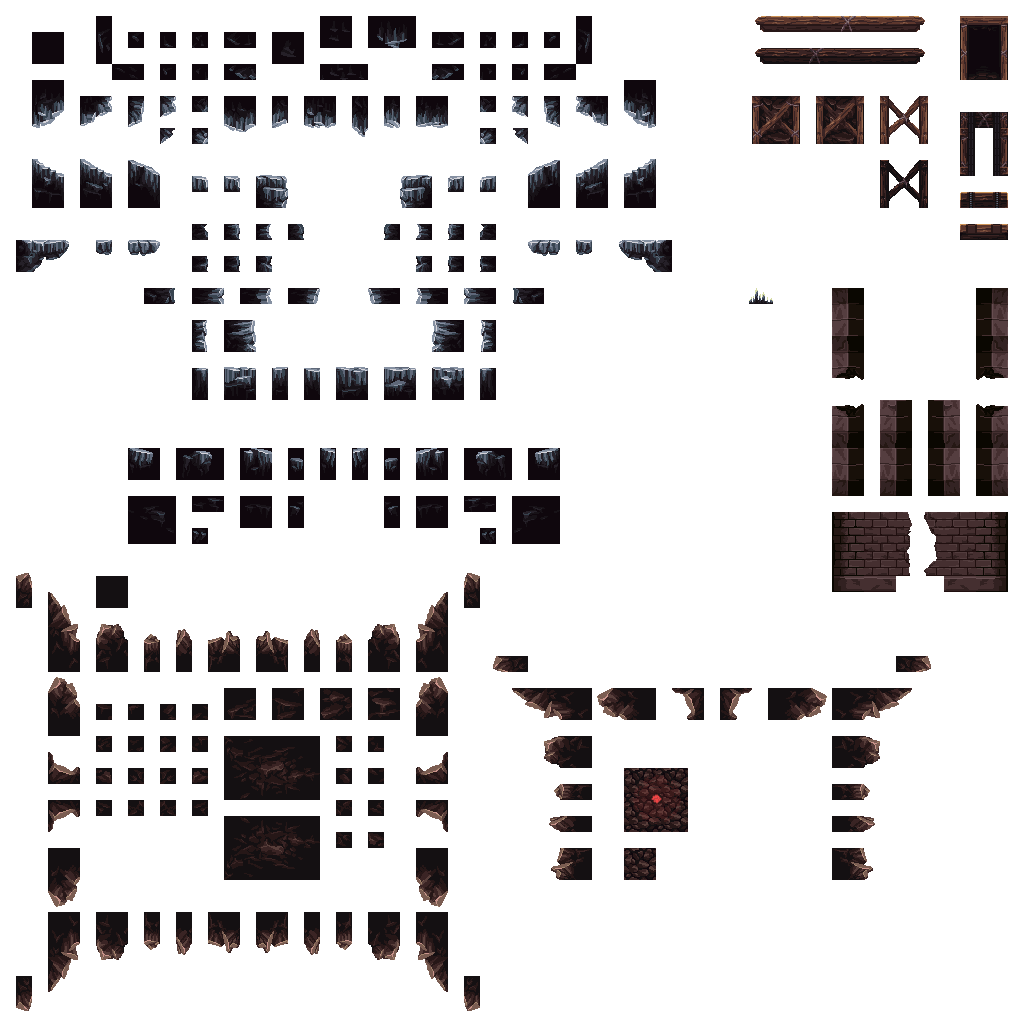
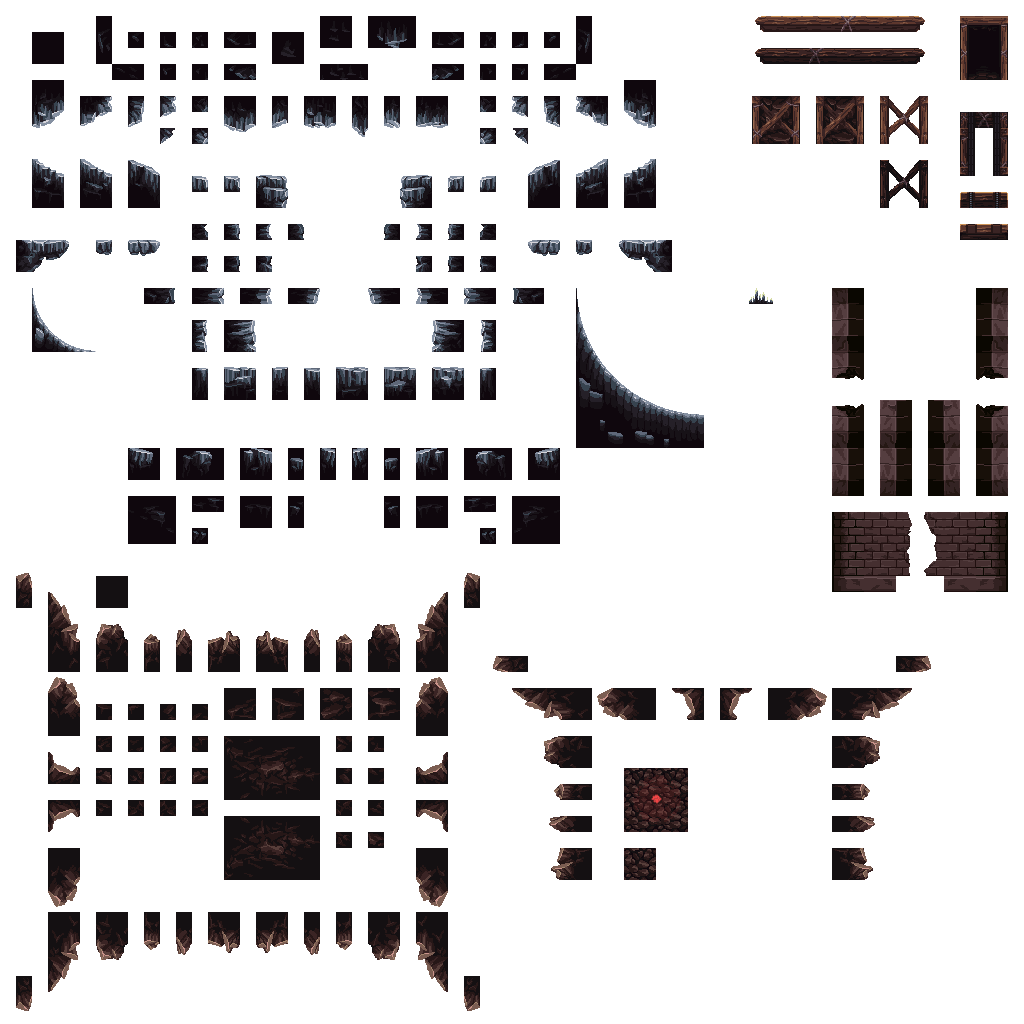
Updated world sprite sheet and added pause menu

Changed region(s): [[0.5625, 0.3125, 0.6875, 0.4375], [0.0312, 0.2812, 0.0938, 0.3438]]

diff --git a/Scripts/PauseMenu.cs b/Scripts/PauseMenu.cs
@@ -1,0 +1,41 @@
+using Godot;
+using System;
+
+public partial class PauseMenu : ColorRect
+{
+	private bool pauseMenuOpen = false;
+	// Called when the node enters the scene tree for the first time.
+	public override void _Ready()
+	{
+	}
+
+	// Called every frame. 'delta' is the elapsed time since the previous frame.
+	public override void _Process(double delta)
+	{
+	}
+
+	public override void _Input(InputEvent @event)
+	{
+		if (@event.IsActionPressed("Pause"))
+		{
+			SetPauseMenu(!pauseMenuOpen);
+		}
+	}
+
+	private void SetPauseMenu(bool setPauseMenu)
+	{
+		GetTree().Paused = setPauseMenu;
+		Visible = setPauseMenu;
+		pauseMenuOpen = setPauseMenu;
+	}
+
+	private void _OnResumeButtonPressed()
+	{
+		SetPauseMenu(false);
+	}
+
+	private void _OnExitLevelButtonPressed()
+	{
+		
+	}
+}

diff --git a/Scripts/Player.cs b/Scripts/Player.cs
@@ -59,6 +59,7 @@ public partial class Player : CharacterBody2D
     // Called when the node enters the scene tree for the first time.
     public override void _Ready()
     {
+        ProcessMode = ProcessModeEnum.Pausable;
         sprite = GetNode<Sprite2D>("SpritePixel");
         animationPlayer = GetNode<AnimationPlayer>("SpritePixel/AnimationPlayer");
         animationPlayer.Play("Idle");
@@ -125,7 +126,7 @@ public partial class Player : CharacterBody2D
             dashed = !IsOnFloor();
 
         velocityInfo = "";
-
+        
         CollisionCalc();
 
         //Gravity
@@ -174,10 +175,6 @@ public partial class Player : CharacterBody2D
         if (dashCooldown >= dashCdMax/2f)
             toCompare = lastVelocity.Normalized();
 
-        //if the Vector is (0, 0) we cant calculate an angle and we are also not moving, so skip
-        if (toCompare == Vector2.Zero)
-            return;
-
         String collisions = "";
         for (int i = 0; i < GetSlideCollisionCount(); i++)
         {
@@ -185,16 +182,17 @@ public partial class Player : CharacterBody2D
             float collisionAngle = RotationOfVectors(toCompare, collisionNormal);
             
             //if angle of collision is smaller than 15°, bounce, else slide on surface
-            if (collisionAngle > 170f || (dashCooldown > dashCdMax/2f && collisionAngle > 135f))
+            if ((dashCooldown > dashCdMax/2f && collisionAngle > 135f))
             {
                 Velocity = lastVelocity.Bounce(collisionNormal) * bounciness;
-                velocityInfo += "Post Bounce Calc (" + ((Node)GetSlideCollision(i).GetCollider()).GetParent().Name +
-                                "): " + Velocity + " " + collisionNormal + "\n";
-
+                
                 if (dashDir != Vector2.Zero)
                 {
                     dashDir = dashDir.Bounce(collisionNormal);
                 }
+                
+                velocityInfo += "Post Bounce Calc (" + ((Node)GetSlideCollision(i).GetCollider()).GetParent().Name +
+                                "): " + Velocity + " " + collisionNormal + "\n";
             }
             else
             {
@@ -215,6 +213,7 @@ public partial class Player : CharacterBody2D
                 }
             }
         }
+        GD.Print("Finished Collision Calc");
     }
 
     private void InputCalculations(float delta)

diff --git a/Scripts/GameManager.cs b/Scripts/GameManager.cs
@@ -3,6 +3,8 @@ using System;
 
 public partial class GameManager : Node
 {
+	public static GameManager Instance { get; private set; }
+	
 	[Export] public Settings settings;
 	[Export] public LevelManager levelManager;
 	[Export] public bool debugLevel = false;
@@ -15,6 +17,9 @@ public partial class GameManager : Node
 	// Called when the node enters the scene tree for the first time.
 	public override void _Ready()
 	{
+		ProcessMode = ProcessModeEnum.Always;
+		Instance = this;
+		
 		if (debugLevel)
 		{
 			currentLevelScene = levelManager.GetLevelScene(LevelType.Debug);
@@ -41,11 +46,12 @@ public partial class GameManager : Node
 
 		if (!debugLevel)
 		{
-			player.Velocity = new Vector2(1000, 0);
+			player.Velocity = new Vector2(0, 1000);
 		}
 		
 		PackedScene trailScene = GD.Load<PackedScene>("res://Scenes/DashTrail.tscn");
 		var dashTrail = trailScene.Instantiate();
+		dashTrail.ProcessMode = ProcessModeEnum.Pausable;
 		AddChild(dashTrail);
 		((DashTrail)dashTrail).player = player;
 		
@@ -56,5 +62,11 @@ public partial class GameManager : Node
 	// Called every frame. 'delta' is the elapsed time since the previous frame.
 	public override void _Process(double delta)
 	{
+	}
+
+	public void GameOver(bool won)
+	{
+		GetTree().Paused = true;
+		
 	}
 }

diff --git a/Scripts/LevelSection.cs b/Scripts/LevelSection.cs
@@ -14,4 +14,12 @@ public partial class LevelSection : Node2D
 	public override void _Process(double delta)
 	{
 	}
+
+	public void _OnGoalBodyEntered(Node2D body)
+	{
+		if (body is not Player)
+			return;
+		
+		GameManager.Instance.GameOver(true);
+	}
 }

diff --git a/Scripts/LevelManager.cs b/Scripts/LevelManager.cs
@@ -9,6 +9,7 @@ public partial class LevelManager : Node2D
 	// Called when the node enters the scene tree for the first time.
 	public override void _Ready()
 	{
+		ProcessMode = ProcessModeEnum.Always;
 		foreach (String levelScenePath in levelScenesPaths)
 		{
 			var scene = GD.Load<PackedScene>(levelScenePath);